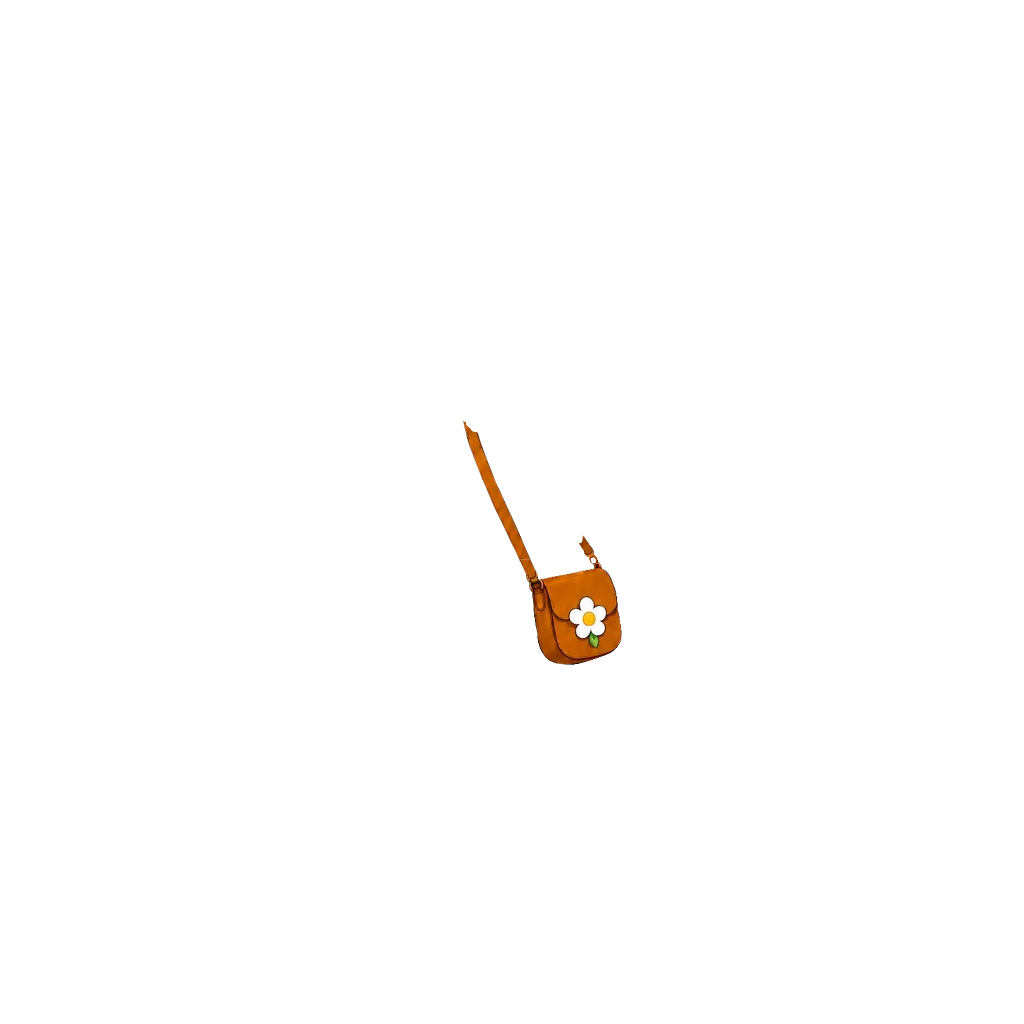
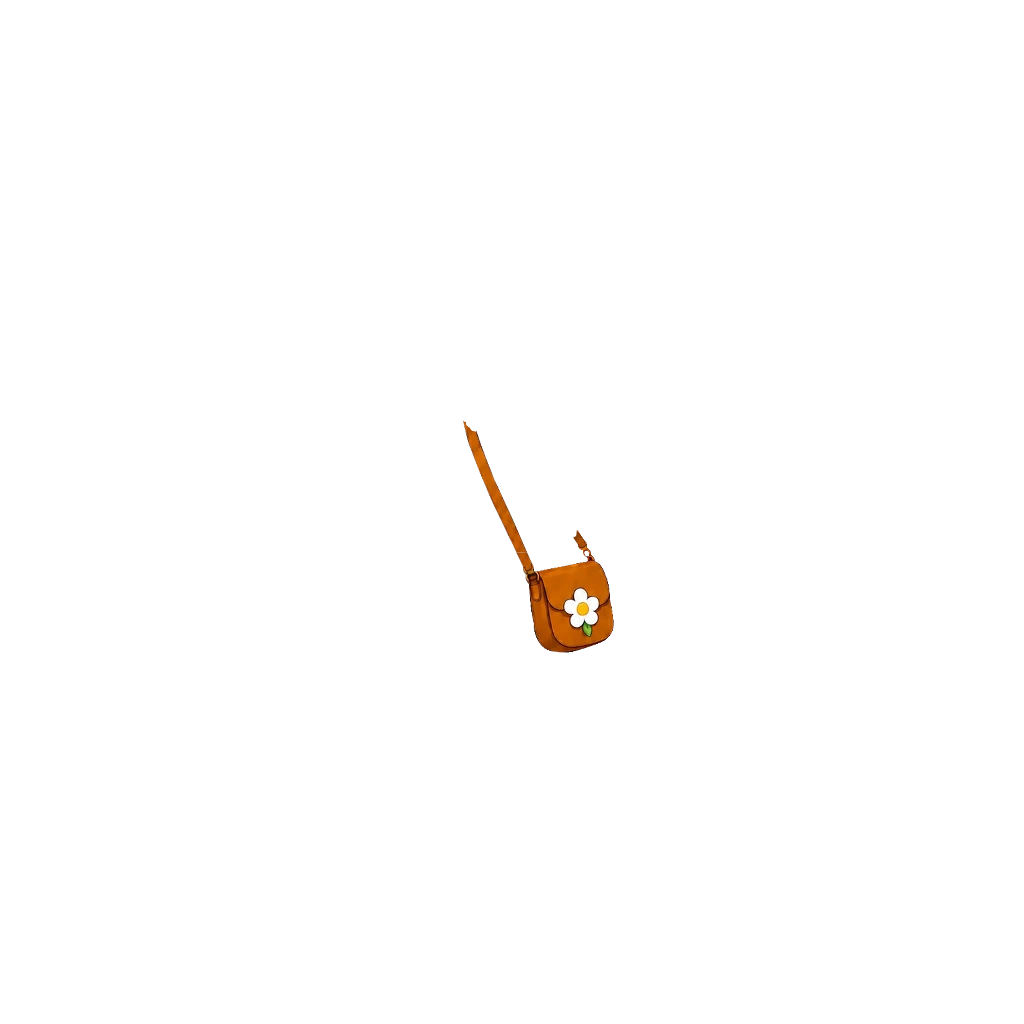
들꽃 크로스백 5% 작게 (#934)
끈이 옷깃 아래에서 시작하는 자리는 고정하고 가방 전체를 줄였다.

Claude-Session: https://claude.ai/code/session_018maNuYqDfFyRSe9uKpZhPR

Changed region(s): [[0.5, 0.5312, 0.625, 0.6562]]

diff --git a/src/data/avatarEquipment.js b/src/data/avatarEquipment.js
@@ -507,8 +507,9 @@ export const AVATAR_CATALOG = [
   /* 들꽃 크로스백 [2026-10-05] — 여아. 갈색 가죽 크로스백(흰 들꽃 장식), 사용자 원화 230×343. 들꽃 탐험가 옷과 짝.
      사용자 배치 참고 그림(얼굴 매칭 0.915)에 맞춤 — 가방 몸통 매칭(0.986) 배율 0.73·-1° 회전, 끈·가방 이음매 (526,568).
      끈은 가방에서 떼어 옷깃 아래 끝(463,421)까지 늘이고(×0.998) y419 위는 지워 옷깃 밑으로 들어가 보이게.
-     옷(35) 위·목 장식(40) 아래 z 38. 탑재 상자 (462,420,622,665). img ?v=2. */
-  { id: "back_crossbag_girl", slot: "back", label: "들꽃 크로스백", emoji: "👜", price:DECOR_PRICE.rare, rarity: "rare", theme: "adventure", forGender: "girl", z: 38, img: "assets/avatar/back/wildflower-crossbag-girl.webp?v=2", thumb: "assets/avatar/thumb/back_crossbag_girl.webp" },
+     옷(35) 위·목 장식(40) 아래 z 38. 탑재 상자 (462,420,622,665). img ?v=2.
+     [2026-10-05] 사용자 조정 — 5% 작게(배율 0.694, 끈 윗끝 (463,421) 고정, 이음매 (523,561)). 탑재 상자 (462,420,614,653). img ?v=3. */
+  { id: "back_crossbag_girl", slot: "back", label: "들꽃 크로스백", emoji: "👜", price:DECOR_PRICE.rare, rarity: "rare", theme: "adventure", forGender: "girl", z: 38, img: "assets/avatar/back/wildflower-crossbag-girl.webp?v=3", thumb: "assets/avatar/thumb/back_crossbag_girl.webp" },
   /* 우주 부츠 — 우주복 바지 밑단(y1425 근처)에 발목깃이 물리게 맞췄다. */
   /* [2026-10-03] 새 원화로 교체 — 남색·흰 우주 부츠(하늘색 띠·주황 탭) 두 짝, 사용자 원화 352×173. 위 탑재값은 옛 판 기록.
      여아 신발과 같은 방식 — 두 짝을 따로 잘라 원화 부츠목 가운데(왼짝 x85 · 오른짝 x56.5)를 남아 다리 가운데(x450.5 · x574.5)에,

diff --git a/art-src/README.md b/art-src/README.md
@@ -633,4 +633,4 @@ bbox로 여백만 잘라내고 배포본은 높이 480px로 축소했다(전부 
 | thumb-src-hat_acorn_boy.webp | **상점 목록 그림 남아 도토리 모자 (hat_acorn_boy, 사용자 원화 2026-10-05)** — 상점 카드에만 보이는 모자 아이콘(쓰는 그림과 별개). 357×320 투명 배경, 세로 160px 로 줄여 탑재(thumb ?v=2) | avatar/thumb/hat_acorn_boy.webp |
 | thumb-src-hat_captain_boy.webp | **상점 목록 그림 남아 꼬마선장 모자 (hat_captain_boy, 사용자 원화 2026-10-05)** — 상점 카드에만 보이는 모자 아이콘(쓰는 그림과 별개). 410×256 투명 배경, 세로 160px 로 줄여 탑재(thumb ?v=2) | avatar/thumb/hat_captain_boy.webp |
 | thumb-src-hat_helmet_boy.webp | **상점 목록 그림 남아 우주 헬멧 (hat_helmet_boy, 사용자 원화 2026-10-05)** — 상점 카드에만 보이는 모자 아이콘(쓰는 그림과 별개). 420×335 투명 배경, 세로 160px 로 줄여 탑재(thumb ?v=2) | avatar/thumb/hat_helmet_boy.webp |
-| wildflower-crossbag-girl-src.webp | **들꽃 크로스백 원화 여아 (사용자 원화 2026-10-05)** — 갈색 가죽 크로스백·흰 들꽃 장식, 들꽃 탐험가 옷과 짝. 사용자 배치 참고 그림(얼굴 매칭 0.915)에 맞춰 가방 몸통 매칭(0.986) 배율 0.73·-1° 회전·이음매 (526,568), 끈은 떼어 옷깃 아래 끝(463,421)까지 늘이고 y419 위는 지움. z 38. 탑재 상자 (462,420,622,665) (img ?v=2). 상점 그림은 원화를 세로 160px 로 | avatar/back/wildflower-crossbag-girl.webp · thumb/back_crossbag_girl.webp |
+| wildflower-crossbag-girl-src.webp | **들꽃 크로스백 원화 여아 (사용자 원화 2026-10-05)** — 갈색 가죽 크로스백·흰 들꽃 장식, 들꽃 탐험가 옷과 짝. 사용자 배치 참고 그림(얼굴 매칭 0.915)에 맞춰 가방 몸통 매칭(0.986) 배율 0.73·-1° 회전·이음매 (526,568), 끈은 떼어 옷깃 아래 끝(463,421)까지 늘이고 y419 위는 지움. z 38. 탑재 상자 (462,420,622,665) (img ?v=2). 사용자 조정 5% 작게 — 배율 0.694·끈 윗끝 고정·이음매 (523,561), 탑재 상자 (462,420,614,653) (img ?v=3). 상점 그림은 원화를 세로 160px 로 | avatar/back/wildflower-crossbag-girl.webp · thumb/back_crossbag_girl.webp |
